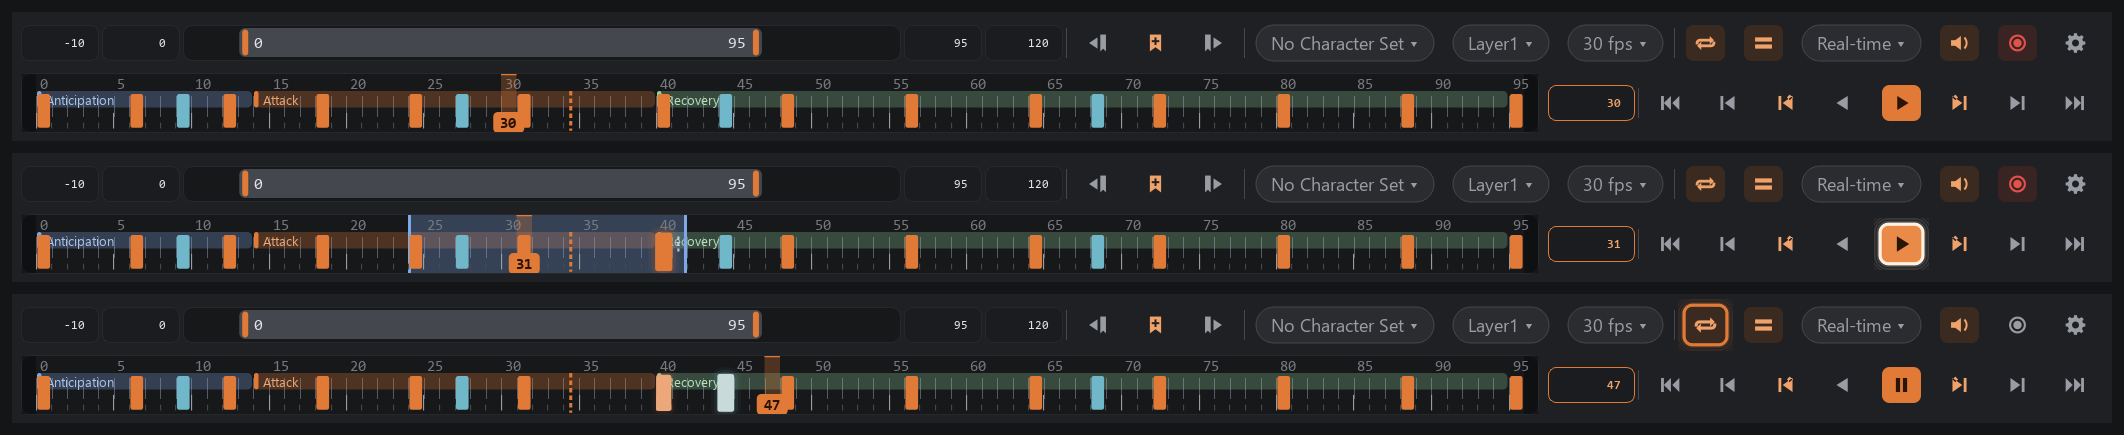
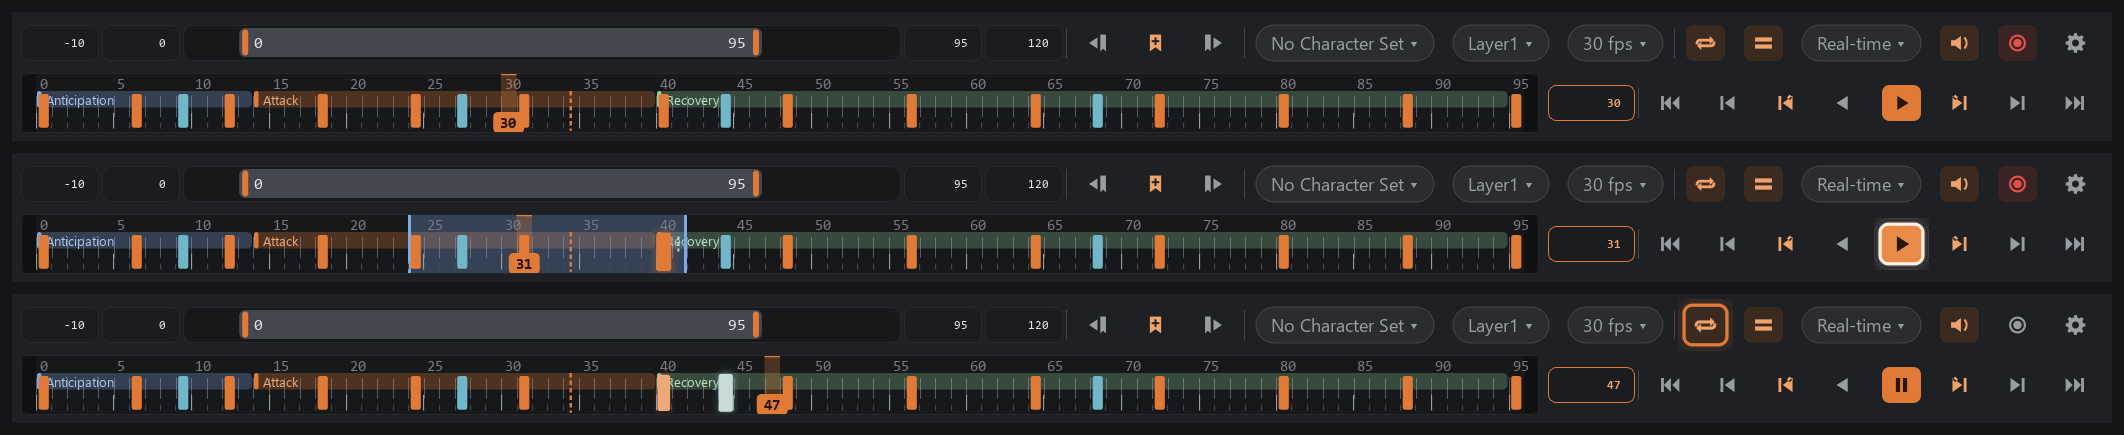
feat(timebar): keys 20 % narrower, centred in their frame
A key on a whole frame is look.KEY_WIDTH (0.8) of what its cell leaves after
the gap, centred in the cell; the line of a key between frames 2.5 -> 2.0 px.
The shards, ghosts and the lit glow follow key_cell.

diff --git a/SkeldarAnim/maya_timebar/look.py b/SkeldarAnim/maya_timebar/look.py
@@ -564,18 +564,22 @@ SMALL_CHANGE = 6        # more keys changed at once than this is a reload, not a
 KEY_GAP = 0.18          # a key's cell: this share of the cell left free between neighbours
 KEY_GAP_MAX = 3.0       # ... at most this many logical px
 KEY_INSET = 2.0         # logical px off the key span's top and bottom
+KEY_WIDTH = 0.8         # a key's width, this share of what its cell leaves it
+                        # (2026-10-17, the animator: «ключи ... на 20% уже»)
 
 
 def key_cell(x0, cell, top, bottom, ui=1.0):
-    """(left, top, width, height) of a key on a whole frame, drawn as its frame's
-    cell filled (2026-10-17, the animator's mockup: «ключ закрашивает кадр»): a gap
-    between neighbouring keys, an inset top and bottom; a cell too thin for a gap is
-    filled whole, and a key is never thinner than 1.5 px."""
+    """(left, top, width, height) of a key on a whole frame, drawn in its frame's
+    cell (2026-10-17, the animator's mockup: «ключ закрашивает кадр»): a gap between
+    neighbouring keys, KEY_WIDTH of what is left, centred in the cell, an inset top
+    and bottom; a cell too thin for a gap gives up its gap, and a key is never
+    thinner than 1.5 px."""
     gap = max(1.0, min(KEY_GAP_MAX * ui, KEY_GAP * cell))
     if cell - gap < 2.0:
         gap = 0.0
+    width = max(1.5, (cell - gap) * KEY_WIDTH)
     inset = KEY_INSET * ui
-    return x0 + gap / 2.0, top + inset, max(1.5, cell - gap), max(1.0, bottom - top - 2 * inset)
+    return x0 + (cell - width) / 2.0, top + inset, width, max(1.0, bottom - top - 2 * inset)
 
 
 def key_centre(track, t):

diff --git a/tests/test_timebar_look.py b/tests/test_timebar_look.py
@@ -489,9 +489,13 @@ class KeyCellTests(unittest.TestCase):
 
     def test_a_key_fills_its_cell_with_a_gap_and_an_inset(self):
         l, tp, w, h = look.key_cell(100.0, 20.0, 12.0, 58.0)
-        self.assertAlmostEqual(w, 20.0 - 3.0)
-        self.assertAlmostEqual(l, 101.5)
+        self.assertAlmostEqual(w, (20.0 - 3.0) * look.KEY_WIDTH)
+        self.assertAlmostEqual(l + w / 2.0, 110.0)      # centred in its cell
         self.assertAlmostEqual((tp, h), (14.0, 42.0))
+
+    def test_a_key_is_a_fifth_narrower_than_its_cell_leaves_it(self):
+        self.assertAlmostEqual(look.KEY_WIDTH, 0.8)
+        self.assertAlmostEqual(look.key_cell(0.0, 20.0, 0, 40)[2], 13.6)
 
     def test_neighbouring_keys_never_touch_on_a_roomy_track(self):
         a = look.key_cell(0.0, 10.0, 0, 40)
@@ -499,7 +503,7 @@ class KeyCellTests(unittest.TestCase):
         self.assertGreater(b[0] - (a[0] + a[2]), 0.9)
 
     def test_a_thin_cell_is_filled_whole_and_never_thinner_than_1_5(self):
-        self.assertAlmostEqual(look.key_cell(0.0, 2.5, 0, 40)[2], 2.5)
+        self.assertAlmostEqual(look.key_cell(0.0, 2.5, 0, 40)[2], 2.5 * look.KEY_WIDTH)
         self.assertAlmostEqual(look.key_cell(0.0, 0.5, 0, 40)[2], 1.5)
 
     def test_a_key_is_seen_in_its_cell_middle_or_on_its_time(self):

diff --git a/SkeldarAnim/maya_timebar/bar.py b/SkeldarAnim/maya_timebar/bar.py
@@ -37,7 +37,7 @@ TIMELINE_H = 40         # logical px: the bookmarks band, the keys, the ruler
 BAND_H = 11             # the bookmarks band, its name inside
 LABEL_H = 11            # the frame numbers' row at the very top, the band under it (2026-10-17)
 KEY_Y = 21              # the keys' centre
-KEY_W = 2.5             # a key's mark, logical px wide (2026-10-17: a line, as Maya's)
+KEY_W = 2.0             # a key's mark, logical px wide (2026-10-17: a line, as Maya's; 20 % narrower since)
 DASH_W = 0.8            # a key between frames: its dashes this share of a mark's width
 DASH, DASH_GAP = 3.0, 2.0
 HEAD_FILL = 70          # the playhead's cell, its fill's alpha
